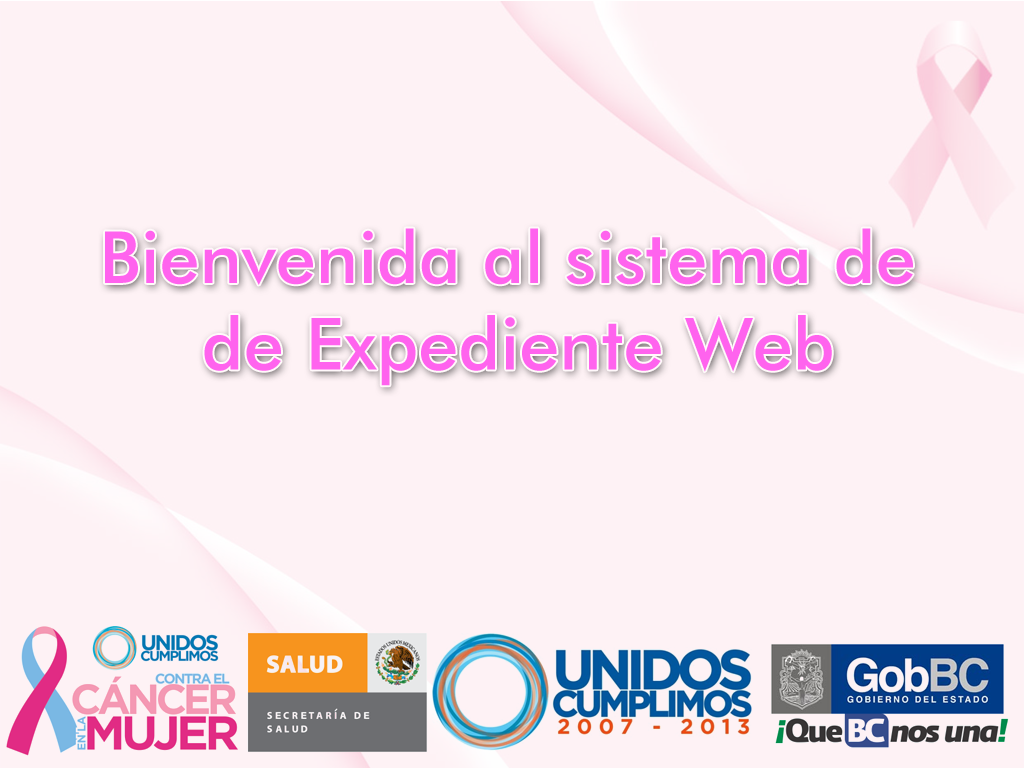
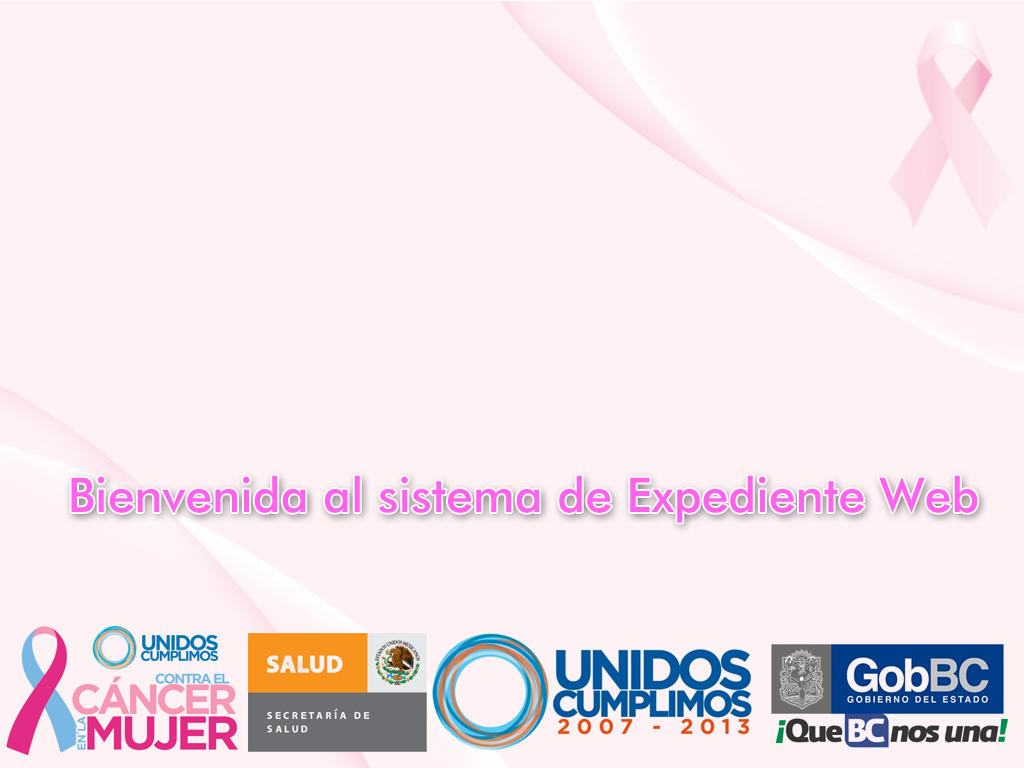
Added new background to home when user logs in.

Changed region(s): [[0.0938, 0.2812, 0.9062, 0.4062], [0.0625, 0.625, 0.9688, 0.6875], [0.1875, 0.4062, 0.8438, 0.5]]

diff --git a/ExpedienteWeb/src/main/webapp/resources/css/style.css b/ExpedienteWeb/src/main/webapp/resources/css/style.css
@@ -4,11 +4,6 @@
 font-size: 90% !important;
 }
 
-.logo .ui-layout-unit-content {
-	background-image: url("#{resource['img:mama-cablemas-logos.png']}");
-	background-size: 100% 100%;
-}
-
 .main .ui-layout-unit-content {
 	background-image: url("#{resource['img:background.png']}");
 	background-size: 100% 100%;
@@ -55,15 +50,20 @@ font-size: 90% !important;
 	z-index: 9999;
 }
 
+.loginform {
+	position: fixed;
+	left: 50%;
+	top: 30%;
+	margin-top:-50px;
+	margin-left:-130px;
+}
+
 .processing {
 	font-size: 200%;
 	font-weight: bolder;
 }
 
 .welcome {
-	z-index: -1;
 	width: 100%;
-	height: 100%;
-	overflow: hidden;
-	background: transparent;
+	height: 90%;
 }
